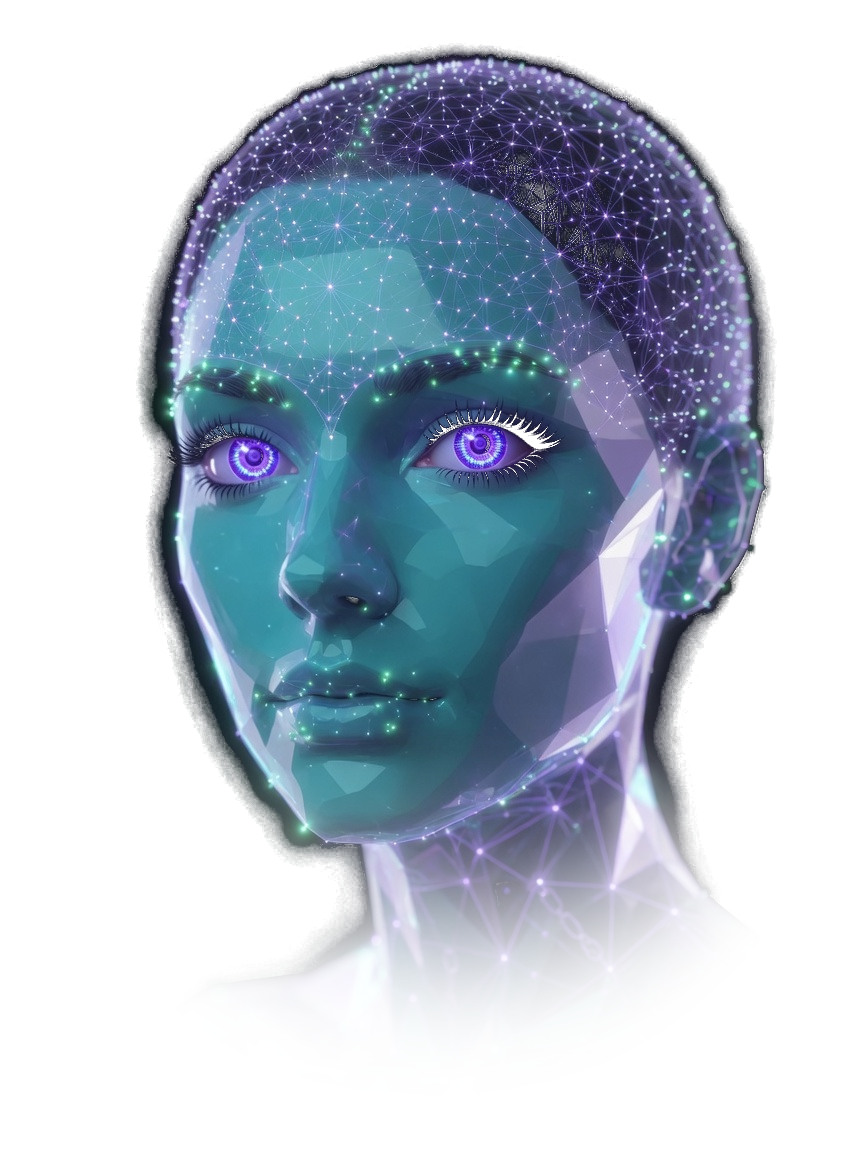
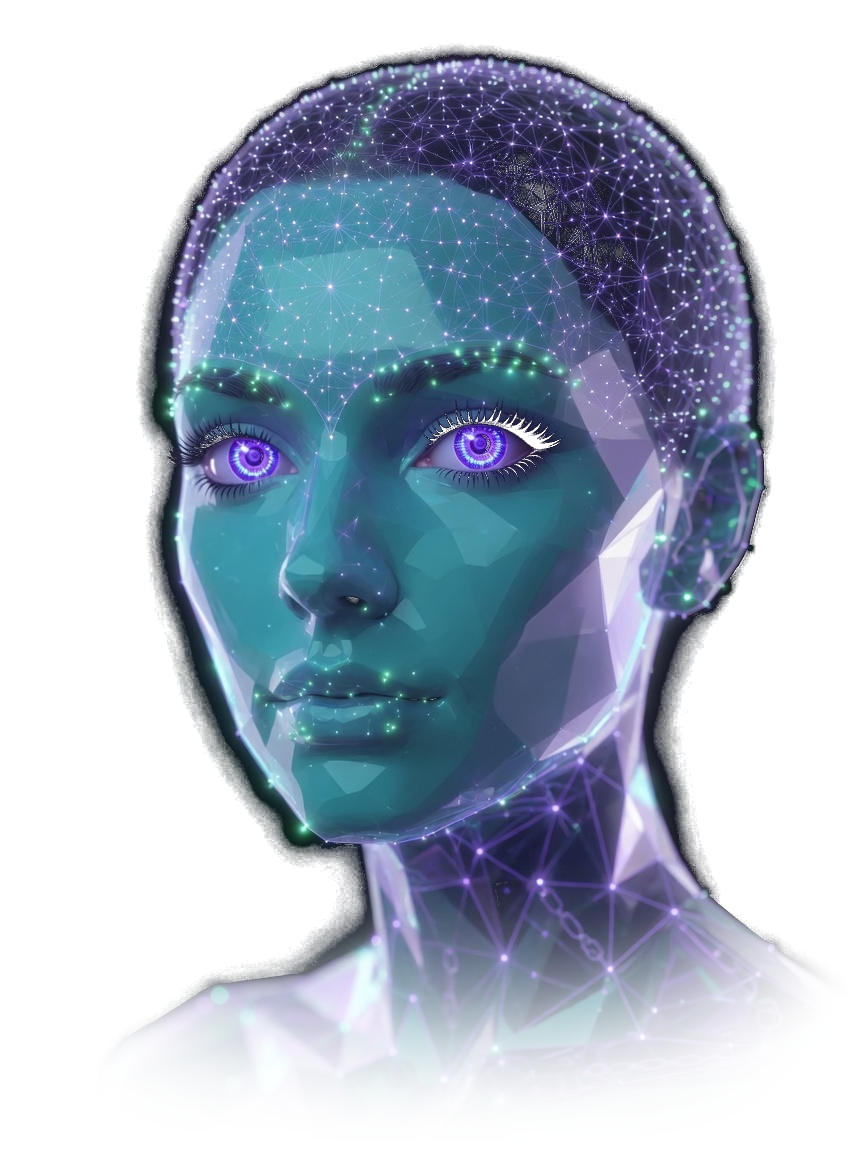
Show more of Solphia's chest before the fade into darkness.

Changed region(s): [[0.1562, 0.625, 0.9375, 0.9375], [0.8438, 0.1875, 0.9062, 0.3438], [0.875, 0.375, 0.9062, 0.4375]]

diff --git a/src/components/SolphiaFace.tsx b/src/components/SolphiaFace.tsx
@@ -489,7 +489,7 @@ export function SolphiaFace({ mode = "panel" }: { mode?: "hero" | "panel" }) {
       {/* eslint-disable-next-line @next/next/no-img-element */}
       <img
         ref={photo}
-        src={hero ? "/solphia-hero.png?v=1" : "/solphia-face.png?v=5"}
+        src={hero ? "/solphia-hero.png?v=2" : "/solphia-face.png?v=5"}
         alt=""
         draggable={false}
         className={`pointer-events-none absolute inset-0 h-full w-full outline-none ${
@@ -509,9 +509,9 @@ export function SolphiaFace({ mode = "panel" }: { mode?: "hero" | "panel" }) {
           ...(hero
             ? {
                 WebkitMaskImage:
-                  "linear-gradient(to bottom, #000 0%, #000 56%, rgba(0,0,0,0.55) 72%, transparent 90%)",
+                  "linear-gradient(to bottom, #000 0%, #000 70%, rgba(0,0,0,0.6) 84%, transparent 96%)",
                 maskImage:
-                  "linear-gradient(to bottom, #000 0%, #000 56%, rgba(0,0,0,0.55) 72%, transparent 90%)",
+                  "linear-gradient(to bottom, #000 0%, #000 70%, rgba(0,0,0,0.6) 84%, transparent 96%)",
               }
             : {}),
         }}
